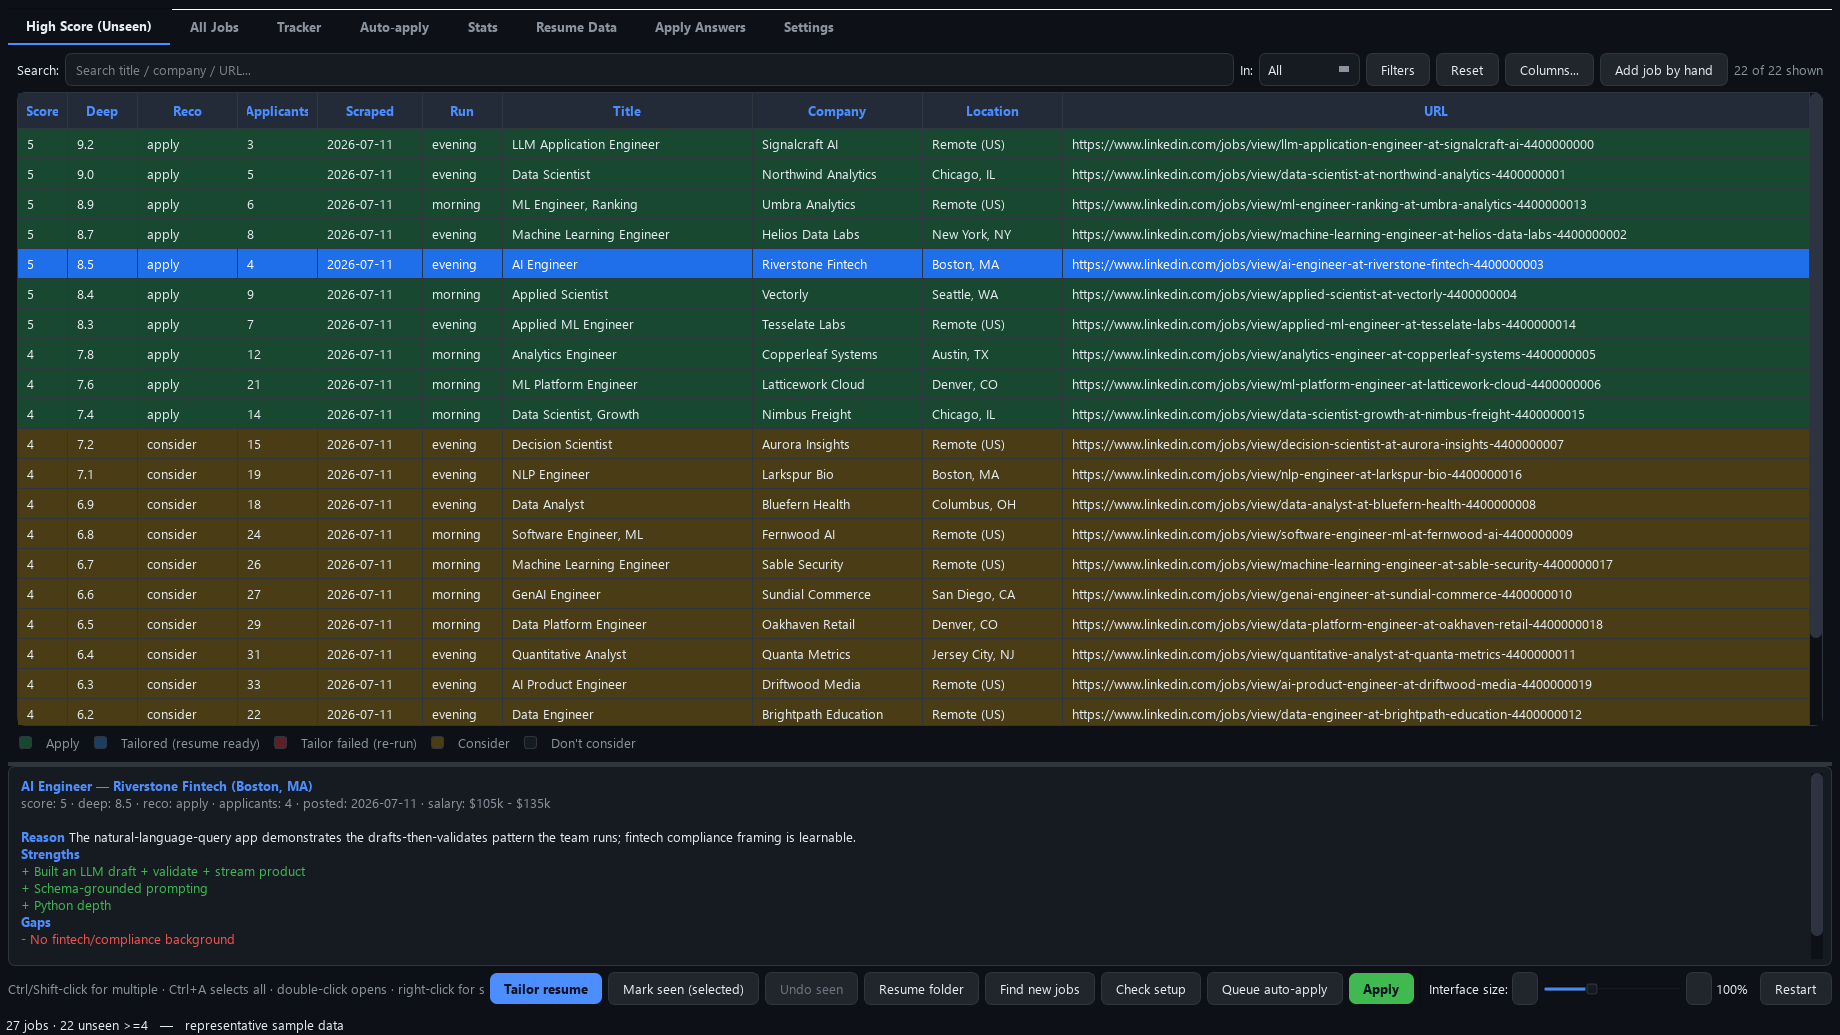
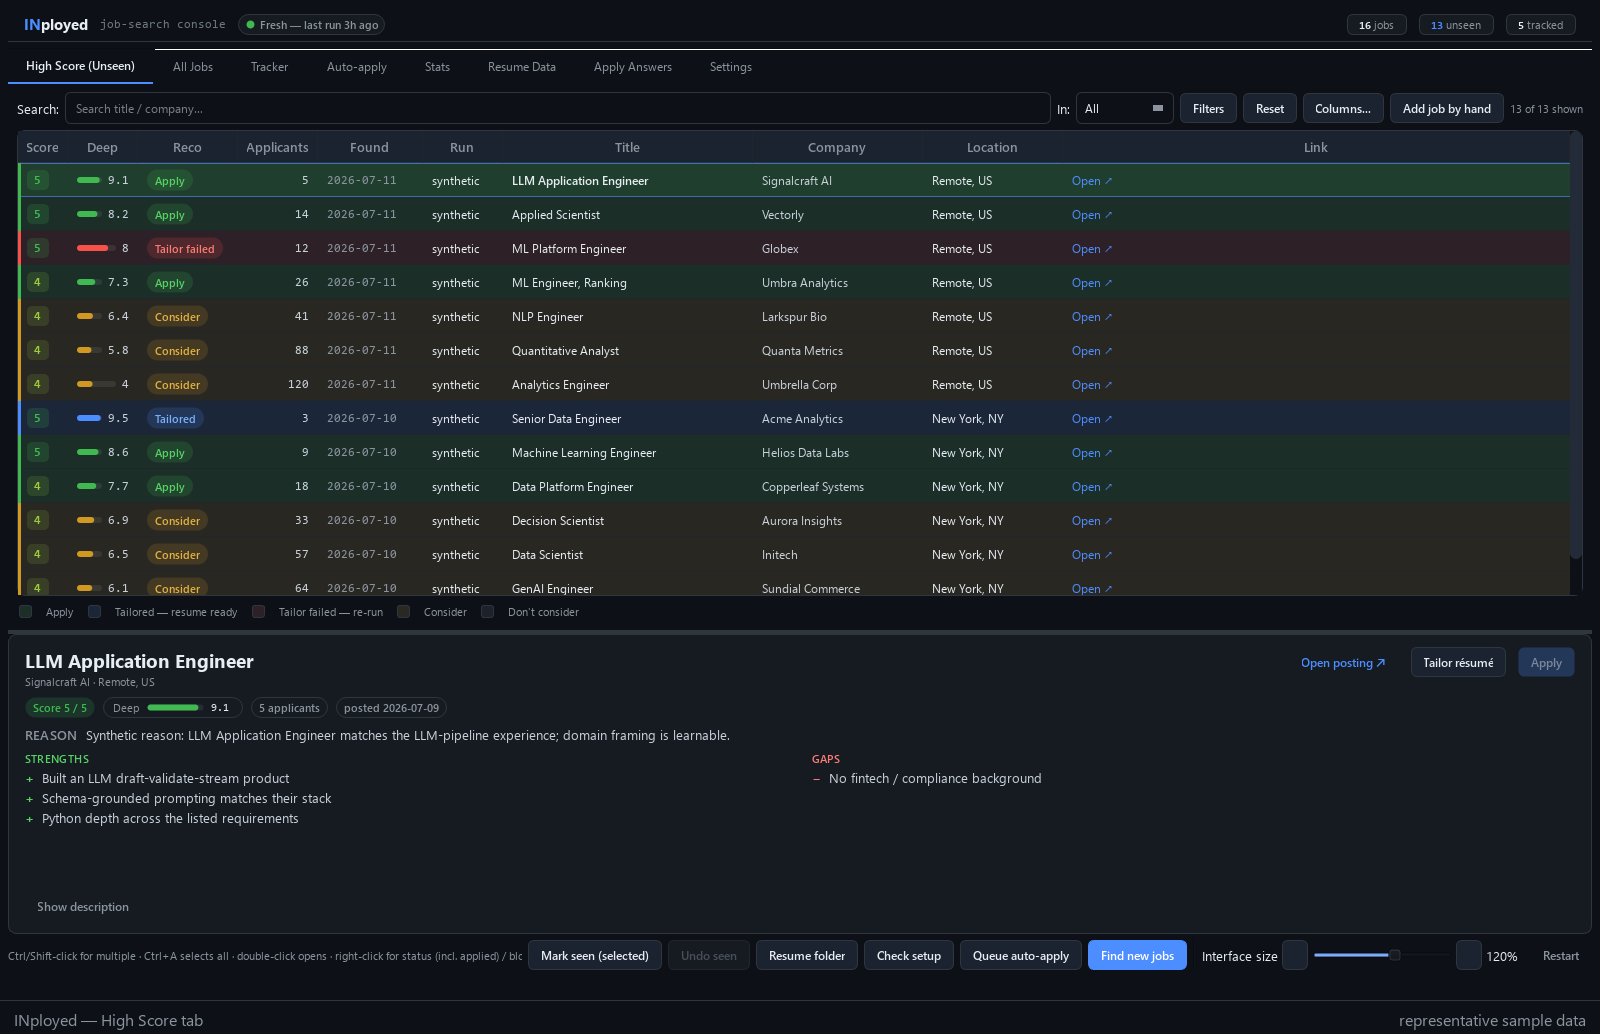
docs(media): regenerate dashboard screenshot + demo GIF for the token restyle
The harness now also synthesizes run_stats.csv (Stats tab + Fresh chip), sanitizes the Resume Data / Apply Answers / Settings tabs to fictional files (no real .env, yaml, or answer store in a grab), and adds extra high-score rows. Media assembled with Pillow: per-frame adaptive palettes, 8 screens with crossfades, a representative-sample-data caption bar.

diff --git a/tools/ui_screenshots.py b/tools/ui_screenshots.py
@@ -10,10 +10,12 @@ root. Idempotent (overwrites), quiet on success -- prints one summary line.
 """
 from __future__ import annotations
 
+import csv
 import json
 import os
 import sys
 import tempfile
+from datetime import datetime, timedelta
 from pathlib import Path
 from unittest.mock import MagicMock
 
@@ -31,6 +33,10 @@ import pandas as pd  # noqa: E402
 from PySide6 import QtWidgets  # noqa: E402
 
 import apply_queue  # noqa: E402
+import resume_md  # noqa: E402
+import settings as _settings  # noqa: E402
+from resume_tailor import apply_answers as _apply_answers  # noqa: E402
+from resume_tailor import config as _rt_config  # noqa: E402
 from qt import theme  # noqa: E402
 from qt.jobs_tab import JobsTab  # noqa: E402
 from qt.main_window import TAB_TITLES, MainWindow  # noqa: E402
@@ -60,6 +66,16 @@ _JOBS = [
     ("j5", 3, 2.5, "consider", "yes", 8,   "BI Developer",           "Hooli"),
     ("j6", 2, 1.0, "skip",     "yes", 0,   "Junior Analyst",         "Pied Piper"),
     ("j7", 1, 0.0, "skip",     "no",  240, "Sales Engineer",         "Vandelay Industries"),
+    # Extra unseen high-scorers so the High Score tab reads like a real run.
+    ("j8",  5, 9.1, "apply",    "no", 5,  "LLM Application Engineer", "Signalcraft AI"),
+    ("j9",  5, 8.6, "apply",    "no", 9,  "Machine Learning Engineer", "Helios Data Labs"),
+    ("j10", 5, 8.2, "apply",    "no", 14, "Applied Scientist",        "Vectorly"),
+    ("j11", 4, 7.7, "apply",    "no", 18, "Data Platform Engineer",   "Copperleaf Systems"),
+    ("j12", 4, 7.3, "apply",    "no", 26, "ML Engineer, Ranking",     "Umbra Analytics"),
+    ("j13", 4, 6.9, "consider", "no", 33, "Decision Scientist",       "Aurora Insights"),
+    ("j14", 4, 6.4, "consider", "no", 41, "NLP Engineer",             "Larkspur Bio"),
+    ("j15", 4, 6.1, "consider", "no", 64, "GenAI Engineer",           "Sundial Commerce"),
+    ("j16", 4, 5.8, "consider", "no", 88, "Quantitative Analyst",     "Quanta Metrics"),
 ]
 
 
@@ -146,9 +162,73 @@ def _queue_jobs() -> list[dict]:
     return entries
 
 
+def _write_run_stats(path: Path) -> None:
+    """Synthetic run_stats.csv so the Stats tab + freshness chip render populated."""
+    cols = ["timestamp", "input_csv", "rows_in", "filtered_out", "llm_scored",
+            "llm_errors", "stage2_done", "rescore_attempted", "rescore_scored",
+            "llm_calls", "prompt_tokens", "output_tokens", "free_calls", "vertex_calls"]
+    now = datetime.now()
+    rows = []
+    for i in range(6, -1, -1):  # 7 runs, oldest first, newest ~3h ago
+        ts = now - timedelta(hours=3 + 12 * i)
+        rows.append({
+            "timestamp": ts.strftime("%Y-%m-%dT%H:%M:%S"),
+            "input_csv": f"synthetic_run_{7 - i}.csv",
+            "rows_in": 140 + 9 * i, "filtered_out": 96 + 7 * i,
+            "llm_scored": 44 + 2 * i, "llm_errors": 0,
+            "stage2_done": 11 + i, "rescore_attempted": 2, "rescore_scored": 2,
+            "llm_calls": 46 + 2 * i, "prompt_tokens": 118_000 + 4_000 * i,
+            "output_tokens": 9_200 + 300 * i, "free_calls": 30, "vertex_calls": 16 + 2 * i,
+        })
+    with open(path, "w", encoding="utf-8", newline="") as f:
+        w = csv.DictWriter(f, fieldnames=cols)
+        w.writeheader()
+        w.writerows(rows)
+
+
 def _write_queue(path: Path, jobs: list[dict]) -> None:
     path.write_text(json.dumps({"version": 1, "jobs": jobs}, indent=1),
                     encoding="utf-8")
+
+
+def _sanitize_personal_tabs(tmp_dir: Path) -> None:
+    """Point the Resume Data + Apply Answers editors at fictional files so no
+    real personal data (the user's yaml / answer store) can appear in a grab."""
+    example = REPO / "resume_tailor_files" / "master_experience.example.yaml"
+    synth_yaml = tmp_dir / "master_experience.yaml"
+    synth_yaml.write_text(example.read_text(encoding="utf-8"), encoding="utf-8")
+    _rt_config.MASTER_YAML = synth_yaml
+    resume_md.MASTER_YAML_PATH = synth_yaml
+    store = tmp_dir / "apply_answers.json"
+    answers = _apply_answers.load_with_defaults(path=store)  # defaults only
+    fictional = {
+        "years_experience": "3", "street_address": "100 Example Street",
+        "city": "Springfield", "state": "Illinois", "zip": "00000",
+        "country": "United States", "how_heard": "LinkedIn",
+    }
+    for e in answers:
+        if e["id"] in fictional:
+            e["answer"] = fictional[e["id"]]
+    _apply_answers.save(answers, path=store)
+    _apply_answers.STORE_PATH = store
+    # Settings tab: read every backing file from the temp dir, never the real
+    # .env / config.json (keeps project ids, names, and machine paths out).
+    env_path = tmp_dir / ".env"
+    env_path.write_text(
+        "BRIGHT_DATA_API_TOKEN=synthetic-placeholder-token\n"
+        "BRIGHT_DATA_DATASET_ID=gd_exampledataset0001\n"
+        "GEMINI_API_KEYS=synthetic-placeholder-key\n"
+        "GOOGLE_CLOUD_PROJECT=example-project\n"
+        "RESUME_TAILOR_CANDIDATE=Jane_Doe\n"
+        "RESUME_TAILOR_OUTPUT=C:/Users/jane/Downloads/Generated_Resumes\n",
+        encoding="utf-8")
+    for target in list(_settings.TARGET_FILES):
+        if target == "env":
+            _settings.TARGET_FILES[target] = env_path
+        else:
+            p = tmp_dir / f"synthetic_{target}.json"
+            p.write_text("{}", encoding="utf-8")
+            _settings.TARGET_FILES[target] = p
 
 
 def _registry(resume_dir: Path) -> MagicMock:
@@ -208,6 +288,7 @@ def main() -> int:
     os.environ["APPLY_QUEUE_PATH"] = str(queue_path)
     resume_dir = tmp_dir / "resume_j1"
     resume_dir.mkdir()
+    _sanitize_personal_tabs(tmp_dir)
 
     app = QtWidgets.QApplication.instance() or QtWidgets.QApplication([])
     theme.apply_theme(app)
@@ -223,16 +304,21 @@ def main() -> int:
     # app uses so high/all/tracker/stats all refresh consistently.
     win.min_score = 4
     win.df = _jobs_df()
+    # Point the Stats tab at a synthetic run_stats.csv (never the user's real
+    # Drive folder -- pin the root resolver to the temp dir) so the metrics
+    # table and the "Fresh" chip render instead of the not-synced placeholder.
+    _write_run_stats(tmp_dir / "run_stats.csv")
+    from qt import main_window as _mw  # noqa: E402
+    _mw.gdrive_root_dir = lambda _paths: tmp_dir
     win._apply_df_views()
+    win._refresh_stats()
     _write_queue(queue_path, _queue_jobs())
     win.apply_queue_panel.refresh()
     _select_row0(win)
     app.processEvents()
     written += _capture_all(app, win, prefix, "", SCALES)
 
-    # Note limits of the offscreen capture rather than pretending otherwise.
-    print(f"{written} PNG(s) written to {OUT_DIR} (prefix '{prefix}'). "
-          "Stats tab shows its placeholder (no run_stats.csv in synthetic mode).")
+    print(f"{written} PNG(s) written to {OUT_DIR} (prefix '{prefix}').")
     return 0
 
 